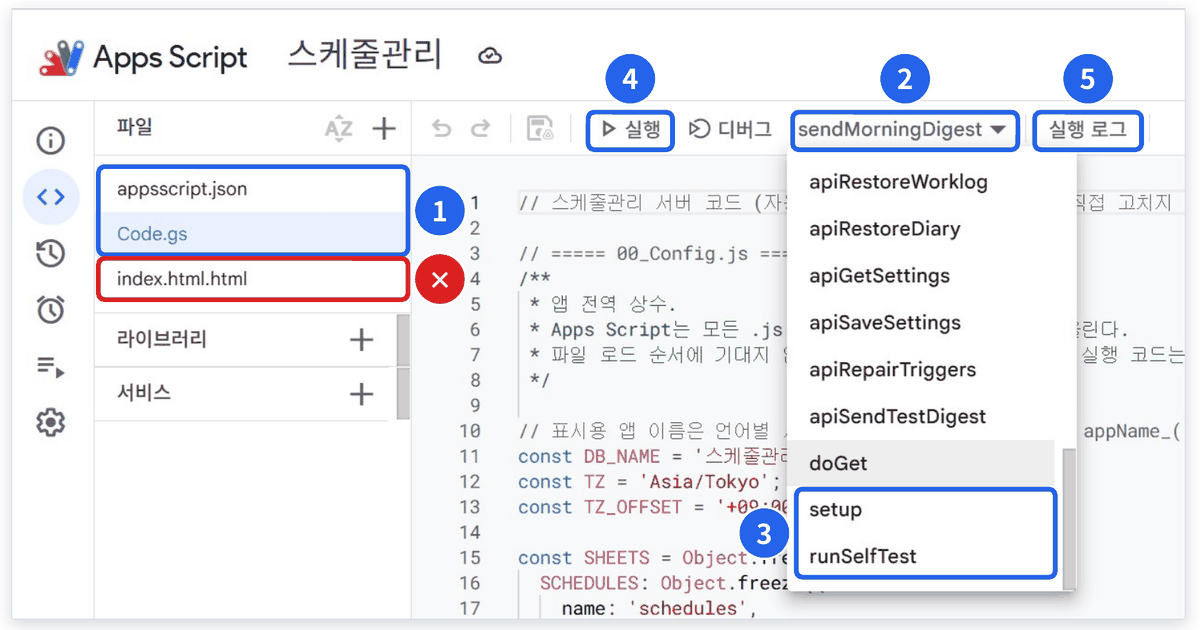
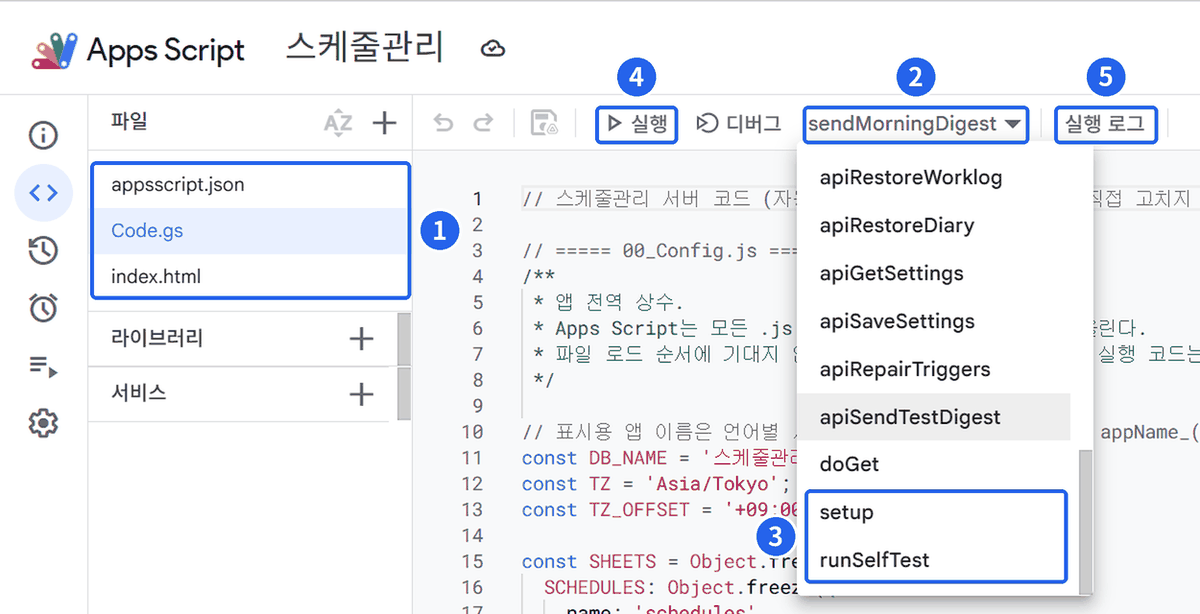
README: 편집기 그림을 정상 화면으로 교체

diff --git a/README.md b/README.md
@@ -133,7 +133,7 @@
 
 | 번호 | 할 일 |
 |---|---|
-| ① | 파일 3개를 확인합니다. 그림의 빨간 ✕처럼 `index.html.html`이면 [2-2](#2-2-파일-3개-넣기)의 ⚠대로 이름을 고칩니다 |
+| ① | 파일 3개(`appsscript.json`, `Code.gs`, `index.html`)를 확인합니다. `index.html.html`로 보이면 [2-2](#2-2-파일-3개-넣기)의 ⚠대로 이름을 고칩니다 |
 | ② | 위쪽 함수 이름(▾)을 눌러 목록을 엽니다 |
 | ③ | 목록 **맨 아래**에서 **`setup`** 을 고릅니다 (목록이 길면 아래로 내립니다) |
 | ④ | **▷ 실행**을 누릅니다 |
